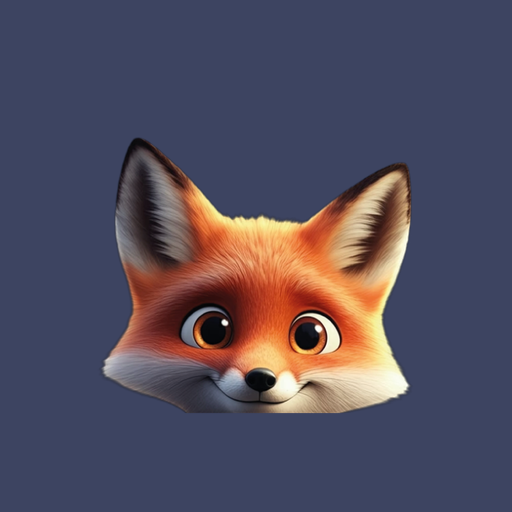
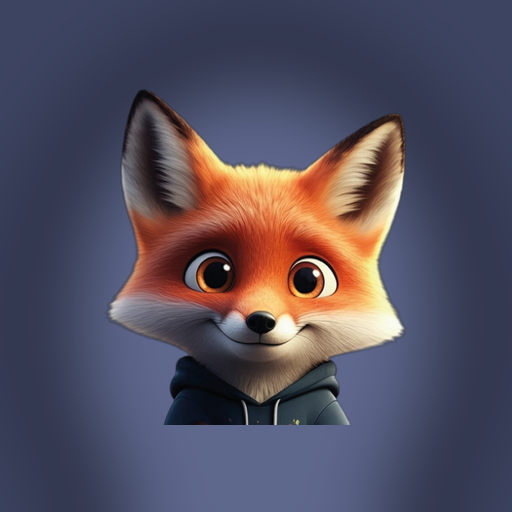
Volpe con collo e spalle, non piu tagliata al mento
Michele, 06.09: la testa risultava tagliata. Ritaglio rifatto
dall'immagine originale intera comprendendo collo e attacco spalle,
con un alone che stacca il colletto scuro dal fondo blu.
Aggiornate tutte le icone e l'anteprima social (v=3).

diff --git a/index.html b/index.html
@@ -19,7 +19,7 @@
 <meta property="og:site_name" content="Vamio">
 <meta property="og:title" content="Vamio, offerte e fatture in ordine. Tu pensa al lavoro.">
 <meta property="og:description" content="Il gestionale svizzero di offerte e fatture QR-Bill con assistente AI. Prova 30 giorni, senza carta.">
-<meta property="og:image" content="https://vamio.ch/web-assets/og-image.jpg?v=2">
+<meta property="og:image" content="https://vamio.ch/web-assets/og-image.jpg?v=3">
 <meta property="og:image:width" content="1200"><meta property="og:image:height" content="630">
 <meta property="og:locale" content="it_CH">
 <meta name="twitter:card" content="summary_large_image">
